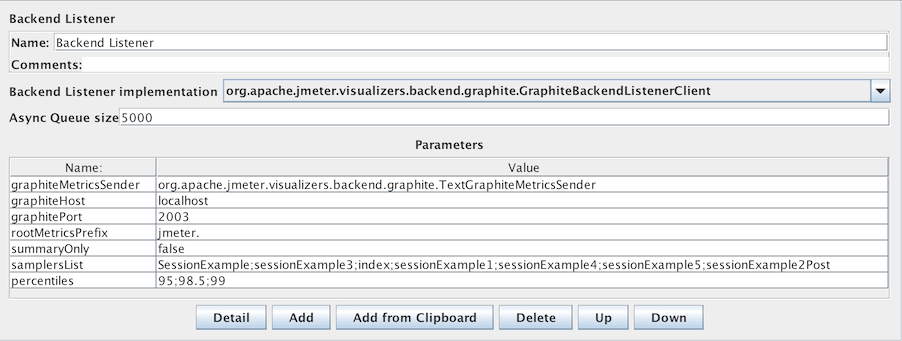
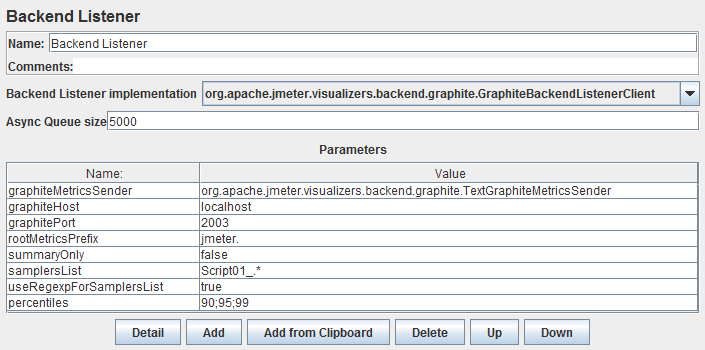
Bug 59099 - Backend listener : Add the possibility to consider samplersList as a Regular Expression Bugzilla Id: 59099
git-svn-id: https://svn.apache.org/repos/asf/jmeter/trunk@1733383 13f79535-47bb-0310-9956-ffa450edef68

Former-commit-id: 3e68ee9fcb286f17c93bd3775ba87cd8a5bc7abf

diff --git a/src/components/org/apache/jmeter/visualizers/backend/graphite/GraphiteBackendListenerClient.java b/src/components/org/apache/jmeter/visualizers/backend/graphite/GraphiteBackendListenerClient.java
@@ -18,8 +18,8 @@
 
 package org.apache.jmeter.visualizers.backend.graphite;
 
-import java.util.Collections;
 import java.text.DecimalFormat;
+import java.util.Collections;
 import java.util.HashMap;
 import java.util.HashSet;
 import java.util.List;
@@ -29,6 +29,8 @@ import java.util.concurrent.Executors;
 import java.util.concurrent.ScheduledExecutorService;
 import java.util.concurrent.ScheduledFuture;
 import java.util.concurrent.TimeUnit;
+import java.util.regex.Matcher;
+import java.util.regex.Pattern;
 
 import org.apache.commons.lang3.StringUtils;
 import org.apache.jmeter.config.Arguments;
@@ -99,6 +101,7 @@ public class GraphiteBackendListenerClient extends AbstractBackendListenerClient
     private boolean summaryOnly;
     private String rootMetricsPrefix;
     private String samplersList = ""; //$NON-NLS-1$
+    private boolean useRegexpForSamplersList;
     private Set<String> samplersToFilter;
     private Map<String, Float> okPercentiles;
     private Map<String, Float> koPercentiles;
@@ -110,6 +113,8 @@ public class GraphiteBackendListenerClient extends AbstractBackendListenerClient
     private ScheduledExecutorService scheduler;
     private ScheduledFuture<?> timerHandle;
     
+    private Pattern pattern;
+
     public GraphiteBackendListenerClient() {
         super();
     }    
@@ -207,12 +212,22 @@ public class GraphiteBackendListenerClient extends AbstractBackendListenerClient
     @Override
     public void handleSampleResults(List<SampleResult> sampleResults,
             BackendListenerContext context) {
+    	boolean samplersToFilterMatch;
         synchronized (LOCK) {
             for (SampleResult sampleResult : sampleResults) {
                 getUserMetrics().add(sampleResult);
-                if(!summaryOnly && samplersToFilter.contains(sampleResult.getSampleLabel())) {
-                    SamplerMetric samplerMetric = getSamplerMetric(sampleResult.getSampleLabel());
-                    samplerMetric.add(sampleResult);
+                
+                if(!summaryOnly) {
+                    if (useRegexpForSamplersList) {
+                    	Matcher matcher = pattern.matcher(sampleResult.getSampleLabel());
+                    	samplersToFilterMatch = matcher.matches();
+                    } else {
+                    	samplersToFilterMatch = samplersToFilter.contains(sampleResult.getSampleLabel()); 
+                    }
+                    if (samplersToFilterMatch) {
+                        SamplerMetric samplerMetric = getSamplerMetric(sampleResult.getSampleLabel());
+                        samplerMetric.add(sampleResult);
+                    }
                 }
                 SamplerMetric cumulatedMetrics = getSamplerMetric(CUMULATED_METRICS);
                 cumulatedMetrics.add(sampleResult);                    
@@ -228,6 +243,7 @@ public class GraphiteBackendListenerClient extends AbstractBackendListenerClient
         graphitePort = context.getIntParameter("graphitePort", DEFAULT_PLAINTEXT_PROTOCOL_PORT);
         summaryOnly = context.getBooleanParameter("summaryOnly", true);
         samplersList = context.getParameter("samplersList", "");
+        useRegexpForSamplersList = context.getBooleanParameter("useRegexpForSamplersList", false);
         rootMetricsPrefix = context.getParameter("rootMetricsPrefix", DEFAULT_METRICS_PREFIX);
         String percentilesAsString = context.getParameter("percentiles", DEFAULT_METRICS_PREFIX);
         String[]  percentilesStringArray = percentilesAsString.split(SEPARATOR);
@@ -260,9 +276,13 @@ public class GraphiteBackendListenerClient extends AbstractBackendListenerClient
         Class<?> clazz = Class.forName(graphiteMetricsSenderClass);
         this.graphiteMetricsManager = (GraphiteMetricsSender) clazz.newInstance();
         graphiteMetricsManager.setup(graphiteHost, graphitePort, rootMetricsPrefix);
-        String[] samplers = samplersList.split(SEPARATOR);
-        samplersToFilter = new HashSet<>();
-        Collections.addAll(samplersToFilter, samplers);
+        if (useRegexpForSamplersList) {
+            pattern = Pattern.compile(samplersList);
+        } else {
+            String[] samplers = samplersList.split(SEPARATOR);
+            samplersToFilter = new HashSet<>();
+            Collections.addAll(samplersToFilter, samplers);
+        }
         scheduler = Executors.newScheduledThreadPool(MAX_POOL_SIZE);
         // Don't change this as metrics are per second
         this.timerHandle = scheduler.scheduleAtFixedRate(this, ONE_SECOND, ONE_SECOND, TimeUnit.SECONDS);
@@ -297,6 +317,7 @@ public class GraphiteBackendListenerClient extends AbstractBackendListenerClient
         arguments.addArgument("rootMetricsPrefix", DEFAULT_METRICS_PREFIX);
         arguments.addArgument("summaryOnly", "true");
         arguments.addArgument("samplersList", "");
+        arguments.addArgument("useRegexpForSamplersList", "false");
         arguments.addArgument("percentiles", DEFAULT_PERCENTILES);
         return arguments;
     }
